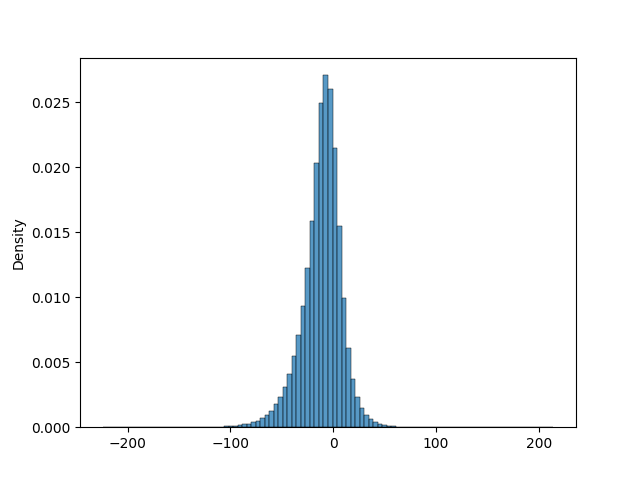
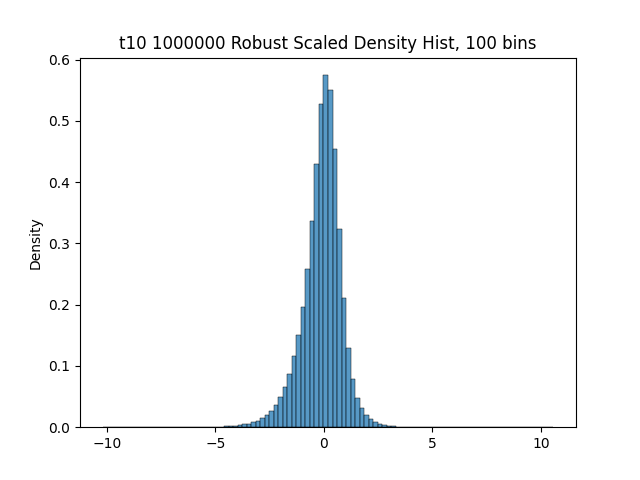
scaled_plots

diff --git a/scaling.py b/scaling.py
@@ -101,19 +101,21 @@ def main():
     #load_timbres(1000)
     data = load_scaling_data()
     #print(data)
-    features = extract_features(data)
+    #features = extract_features(data)
     #print(features)
     #read_numpy_histograms()
     #df = make_pd(data)
+    transformer = RobustScaler().fit(data)
+    scaled_data = transformer.transform(data)
+    features = extract_features(scaled_data)
     for idx, feature in enumerate(features):
         total_records = feature.shape[0]  
         ax = sns.histplot(data=feature,stat='density',bins=100)
+        plt.title(f't{idx} {total_records} Robust Scaled Density Hist, 100 bins')
         plt.savefig(f'./{idx}_{total_records}')
         plt.clf()
     #print(df.head)
     #extract_features_data()
-    #transformer = RobustScaler().fit(X)
-    #transformer.transform(timbre_data)
-
+    
 if __name__ == "__main__":
     main()
